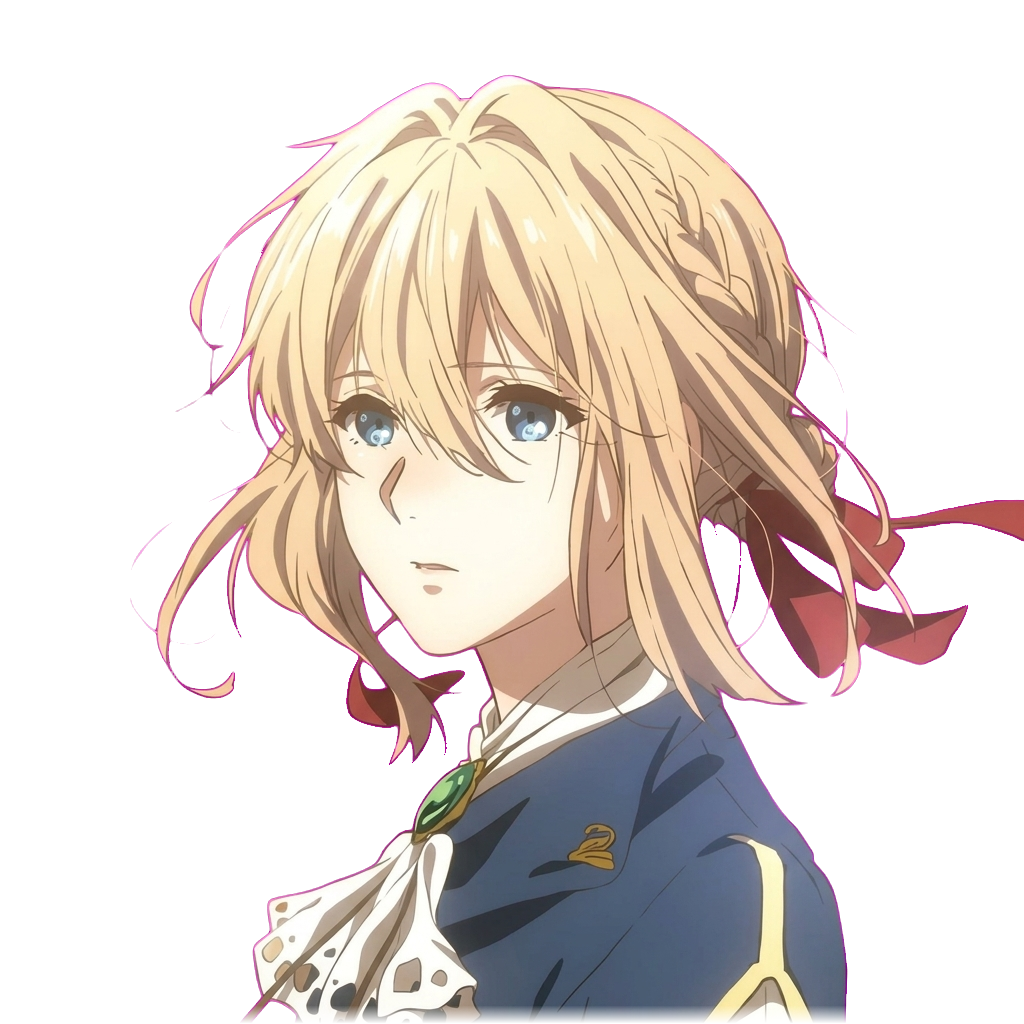
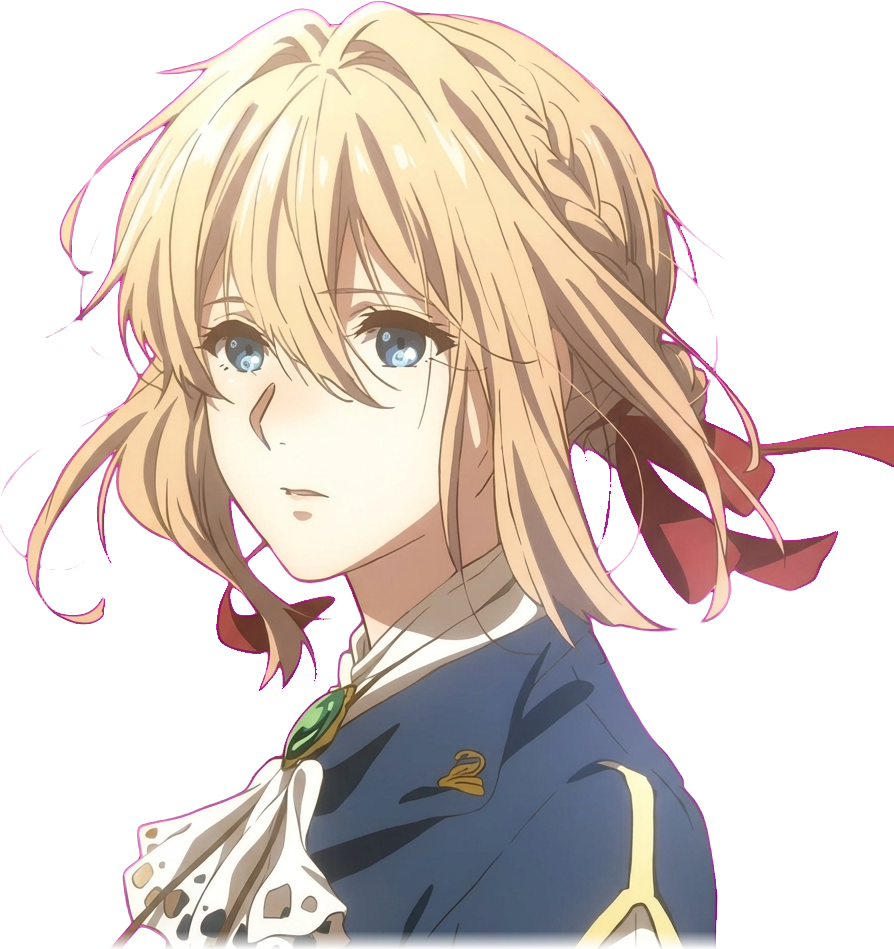
feat(preview): apply 3D pop-out overflow effect to Violet character art

diff --git a/preview-2.html b/preview-2.html
@@ -297,16 +297,18 @@
         /* ================= CONCEPT 2: CYBER PORTAL SHOWCASE ================= */
         .cyber-portal-wrapper {
             max-width: 1140px;
-            margin: 14px auto 26px;
+            margin: 24px auto 26px;
             padding: 0 16px;
         }
 
         /* Quick Segmented Category Tabs */
         .portal-category-tabs {
+            position: relative;
+            z-index: 20;
             display: flex;
             align-items: center;
             gap: 8px;
-            margin-bottom: 14px;
+            margin-bottom: 28px;
             overflow-x: auto;
             scrollbar-width: none;
             padding-bottom: 2px;
@@ -373,7 +375,7 @@
             background: #0d0f18;
             border: 1px solid rgba(168, 85, 247, 0.3);
             border-radius: 26px;
-            overflow: hidden;
+            overflow: visible;
             box-shadow: 0 12px 32px -4px rgba(0, 0, 0, 0.55);
             transition: border-color 0.5s ease, box-shadow 0.5s ease;
         }
@@ -393,6 +395,15 @@
         .cyber-banner-box[data-theme="3"] {
             border: 1px solid rgba(168, 85, 247, 0.35);
             box-shadow: 0 12px 32px -4px rgba(0, 0, 0, 0.55), 0 0 28px rgba(168, 85, 247, 0.25);
+        }
+
+        .cyber-orb-wrapper {
+            position: absolute;
+            inset: 0;
+            border-radius: 26px;
+            overflow: hidden;
+            pointer-events: none;
+            z-index: 2;
         }
 
         .cyber-orb {
@@ -423,6 +434,7 @@
             width: 100%;
             height: 100%;
             min-height: 370px;
+            overflow: visible;
         }
 
         .cyber-slide-item {
@@ -430,6 +442,7 @@
             inset: 0;
             width: 100%;
             height: 100%;
+            border-radius: 26px;
             box-sizing: border-box;
             display: flex;
             align-items: center;
@@ -631,11 +644,27 @@
             transform: scale(1.05) translateY(-3px);
         }
 
-        /* Character-themed ambient drop-shadows: smooth, clean & luminous */
+        /* Violet Evergarden 3D Pop-out Effect (Extends above banner box) */
+        .cyber-slide-item[data-tab="0"] .cyber-art-box {
+            position: relative;
+            overflow: visible;
+            z-index: 10;
+        }
+
         .cyber-slide-item[data-tab="0"] .cyber-art-img {
-            filter: drop-shadow(0 8px 20px rgba(0, 0, 0, 0.35)) drop-shadow(0 0 18px rgba(245, 208, 134, 0.25));
-            -webkit-mask-image: linear-gradient(to bottom, black 88%, transparent 100%);
-            mask-image: linear-gradient(to bottom, black 88%, transparent 100%);
+            max-width: 360px;
+            max-height: 415px;
+            height: 410px;
+            width: auto;
+            transform: translateY(-48px) translateX(6px);
+            filter: drop-shadow(0 12px 26px rgba(0, 0, 0, 0.45)) drop-shadow(0 0 22px rgba(245, 208, 134, 0.3));
+            -webkit-mask-image: linear-gradient(to bottom, black 82%, transparent 98%);
+            mask-image: linear-gradient(to bottom, black 82%, transparent 98%);
+            transition: transform 0.4s ease, filter 0.4s ease;
+        }
+
+        .cyber-banner-box:hover .cyber-slide-item[data-tab="0"] .cyber-art-img {
+            transform: translateY(-52px) translateX(6px) scale(1.02);
         }
         .cyber-slide-item[data-tab="1"] .cyber-art-img {
             filter: drop-shadow(0 8px 20px rgba(0, 0, 0, 0.35)) drop-shadow(0 0 20px rgba(255, 69, 0, 0.3));
@@ -937,6 +966,12 @@
                 max-width: 160px;
                 max-height: 155px;
             }
+            .cyber-slide-item[data-tab="0"] .cyber-art-img {
+                max-width: 195px;
+                max-height: 195px;
+                height: 190px;
+                transform: translateY(-22px);
+            }
             .cyber-bottom-bar {
                 left: 18px;
                 right: 18px;
@@ -1028,8 +1063,10 @@
 
             <!-- Cyber Hero Banner Card -->
             <div class="cyber-banner-box" id="cyberBannerBox" data-theme="0">
-                <div class="cyber-orb orb-left"></div>
-                <div class="cyber-orb orb-right"></div>
+                <div class="cyber-orb-wrapper">
+                    <div class="cyber-orb orb-left"></div>
+                    <div class="cyber-orb orb-right"></div>
+                </div>
 
                 <div class="cyber-slides-track">
                     <!-- Slide 1: Welcome / Violet Evergarden -->

diff --git a/preview-1.html b/preview-1.html
@@ -298,7 +298,7 @@
         /* ================= HERO SHOWCASE CAROUSEL ================= */
         .showcase-carousel-wrapper {
             max-width: 1140px;
-            margin: 14px auto 26px;
+            margin: 44px auto 26px;
             padding: 0 16px;
             position: relative;
         }
@@ -310,7 +310,7 @@
             min-height: 360px;
             max-height: 360px;
             border-radius: 26px;
-            overflow: hidden;
+            overflow: visible;
             background: #0d1222;
             border: 1px solid rgba(138, 180, 248, 0.25);
             box-shadow: 0 12px 32px -4px rgba(0, 0, 0, 0.55);
@@ -339,6 +339,7 @@
             content: '';
             position: absolute;
             inset: 0;
+            border-radius: 26px;
             background-image: radial-gradient(rgba(255, 255, 255, 0.25) 1px, transparent 1px),
                               radial-gradient(rgba(138, 180, 248, 0.2) 1.5px, transparent 1.5px);
             background-size: 40px 40px, 80px 80px;
@@ -353,6 +354,7 @@
             width: 100%;
             height: 100%;
             min-height: 360px;
+            overflow: visible;
         }
 
         .showcase-slide {
@@ -360,6 +362,7 @@
             inset: 0;
             width: 100%;
             height: 100%;
+            border-radius: 26px;
             box-sizing: border-box;
             display: flex;
             align-items: center;
@@ -619,11 +622,27 @@
             transform: scale(1.04) translateY(-4px);
         }
 
-        /* Character-themed ambient drop-shadows: smooth, clean & luminous */
+        /* Violet Evergarden 3D Pop-out Effect (Extends above banner box) */
+        .showcase-slide[data-index="0"] .slide-art-right {
+            position: relative;
+            overflow: visible;
+            z-index: 10;
+        }
+
         .showcase-slide[data-index="0"] .slide-art-img {
-            filter: drop-shadow(0 8px 20px rgba(0, 0, 0, 0.35)) drop-shadow(0 0 18px rgba(245, 208, 134, 0.25));
-            -webkit-mask-image: linear-gradient(to bottom, black 88%, transparent 100%);
-            mask-image: linear-gradient(to bottom, black 88%, transparent 100%);
+            max-width: 360px;
+            max-height: 415px;
+            height: 410px;
+            width: auto;
+            transform: translateY(-48px) translateX(6px);
+            filter: drop-shadow(0 12px 26px rgba(0, 0, 0, 0.45)) drop-shadow(0 0 22px rgba(245, 208, 134, 0.3));
+            -webkit-mask-image: linear-gradient(to bottom, black 82%, transparent 98%);
+            mask-image: linear-gradient(to bottom, black 82%, transparent 98%);
+            transition: transform 0.4s ease, filter 0.4s ease;
+        }
+
+        .showcase-container:hover .showcase-slide[data-index="0"] .slide-art-img {
+            transform: translateY(-52px) translateX(6px) scale(1.02);
         }
         .showcase-slide[data-index="1"] .slide-art-img {
             filter: drop-shadow(0 8px 20px rgba(0, 0, 0, 0.35)) drop-shadow(0 0 20px rgba(255, 69, 0, 0.3));
@@ -1020,6 +1039,12 @@
             .slide-art-img {
                 max-width: 160px;
                 max-height: 155px;
+            }
+            .showcase-slide[data-index="0"] .slide-art-img {
+                max-width: 195px;
+                max-height: 195px;
+                height: 190px;
+                transform: translateY(-22px);
             }
             .showcase-arrow-btn {
                 display: none;
